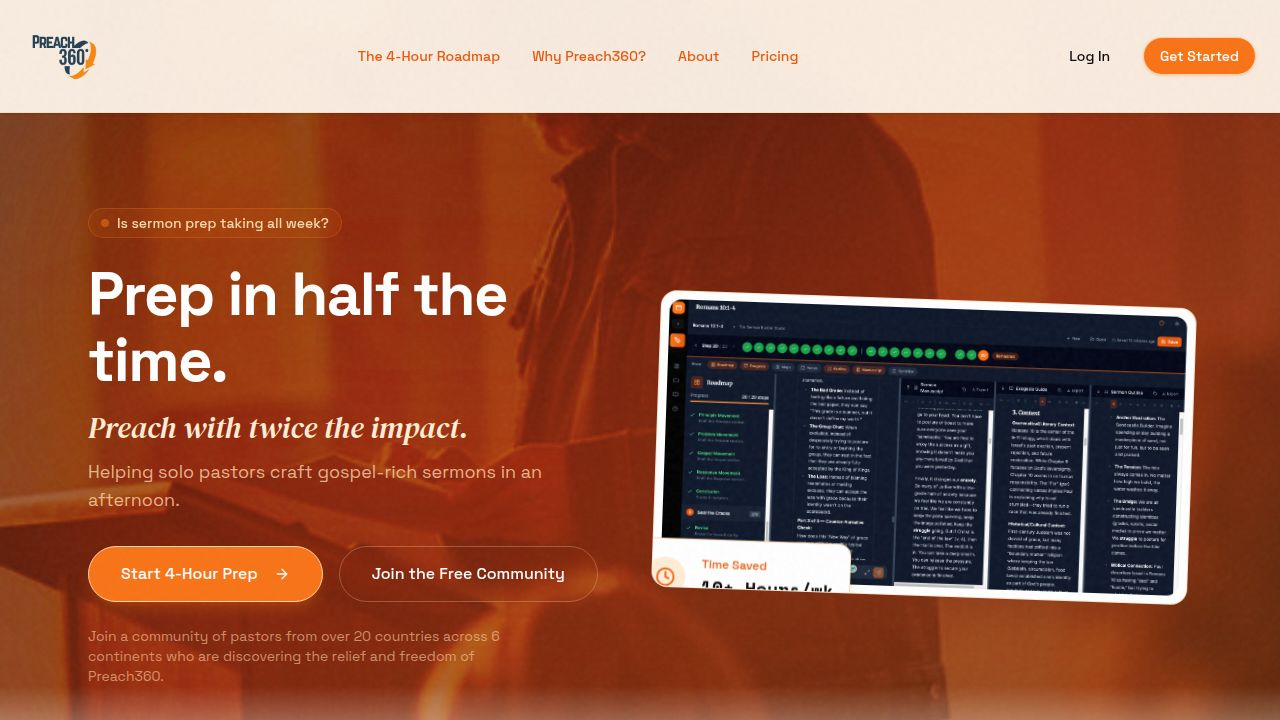
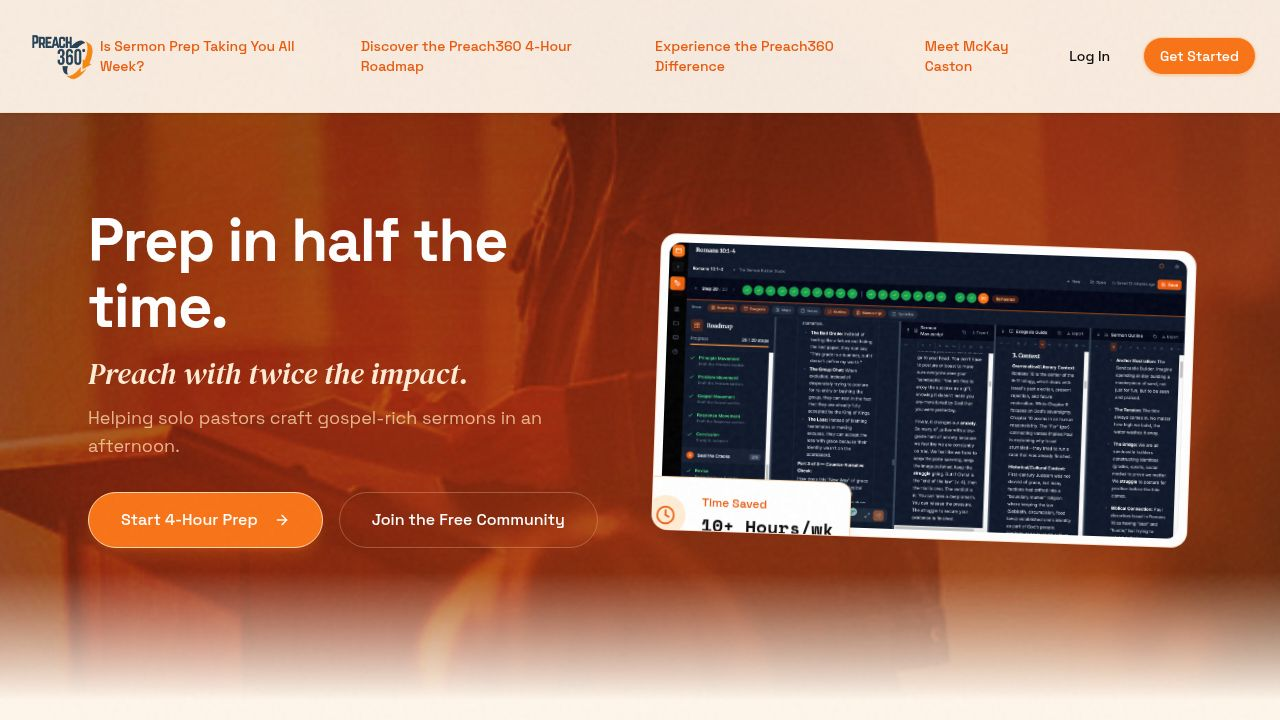
Update website structure and navigation to align with new marketing strategy
Refactors client/src/pages/home.tsx and client/src/components/navbar.tsx to implement a new 5-section structure and update navigation links. Also updates client/public/opengraph.jpg.

Replit-Commit-Author: Agent
Replit-Commit-Session-Id: b40ebc65-716c-42ff-8a29-f355e8ec55d6
Replit-Commit-Checkpoint-Type: full_checkpoint
Replit-Commit-Event-Id: cc2ed792-aba9-4d38-80b8-5e5e4e2a74d6
Replit-Commit-Screenshot-Url: https://storage.googleapis.com/screenshot-production-us-central1/52b2e9a9-1aca-4f31-b761-2a0e85fbc987/b40ebc65-716c-42ff-8a29-f355e8ec55d6/5cF8p7C
Replit-Helium-Checkpoint-Created: true

diff --git a/client/src/pages/home.tsx b/client/src/pages/home.tsx
@@ -84,16 +84,36 @@ export default function Home() {
         </div>
       </section>
 
-      {/* THE ENEMY (Agitation Block) - MOVED DOWN */}
-
-      {/* ROADMAP & PROTOCOL */}
-      <section className="pt-24 pb-8 bg-brand-50/50 relative" id="roadmap">
-        <div className="container mx-auto px-4 max-w-6xl">
-          <div className="mb-16 text-center">
-            <h2 className="text-3xl md:text-5xl font-bold mb-6 font-drama text-brand-950">The Preach360 4-Hour Roadmap</h2>
-            <p className="text-xl text-brand-600 font-medium">
-              Preach360 provides the path. You trust the process.
+      {/* 1. THE PROBLEM */}
+      <section className="py-16 md:py-20 bg-background relative" id="problem">
+        <div className="container mx-auto px-4 max-w-4xl text-center">
+          <h2 className="text-3xl md:text-5xl font-bold mb-8 font-drama text-foreground">Is Sermon Prep Taking You All Week?</h2>
+          
+          <div className="text-lg md:text-xl text-muted-foreground leading-relaxed">
+            <p className="mb-6 font-medium text-foreground">
+              Sermon prep that feels like cutting a new trail through a dense forest inevitably leads to mental pressure, emotional stress, and pastoral burnout.
             </p>
+            <p className="mb-6">
+              Without a clear path, it is easy to default to bloated, complicated Bible software, drown in stacks of physical commentaries, or fall back on soulless, generic AI.
+            </p>
+            <p className="mb-6 font-drama text-2xl text-brand-800">
+              What if there were a pre-cleared path to follow?
+            </p>
+            <p className="mb-8 font-bold text-foreground text-xl">
+              Now, there is.
+            </p>
+            <p className="text-base md:text-lg">
+              Preach360 guides you down a redemptive path from raw exegesis to a complete draft in 4 hours or less, serving as a Socratic preaching coach. It doesn't do the work for you. It does the work with you, allowing you to retain your unique, authentic voice and pastoral heart.
+            </p>
+          </div>
+        </div>
+      </section>
+
+      {/* 2. ROADMAP & PROTOCOL */}
+      <section className="py-16 md:py-20 bg-brand-50/50 relative" id="roadmap">
+        <div className="container mx-auto px-4 max-w-6xl">
+          <div className="mb-12 text-center">
+            <h2 className="text-3xl md:text-5xl font-bold mb-6 font-drama text-brand-950">Discover the Preach360 4-Hour Roadmap</h2>
           </div>
 
           <div className="mb-8 flex justify-center w-full">
@@ -104,7 +124,7 @@ export default function Home() {
             <h2 className="text-lg md:text-xl font-medium text-muted-foreground font-sans">4 hours of deep work beats 12 hours of distracted prep every time.</h2>
           </div>
 
-          <div className="grid md:grid-cols-4 gap-6 items-stretch mb-16">
+          <div className="grid md:grid-cols-4 gap-6 items-stretch">
             <div className="group relative bg-card border border-border hover:border-brand-300 transition-colors duration-300 rounded-3xl p-6 shadow-sm hover:shadow-xl hover:shadow-brand-500/5 flex flex-col h-full">
               <div className="text-brand-500 mb-6 bg-brand-50 w-14 h-14 rounded-2xl flex items-center justify-center shadow-sm">
                 <BookOpen size={28} />
@@ -149,79 +169,15 @@ export default function Home() {
               </p>
             </div>
           </div>
-
-          <div className="mt-16 max-w-3xl mx-auto text-lg md:text-xl text-muted-foreground leading-relaxed text-center">
-            <p className="mb-6 font-medium text-foreground">
-              Spending 12 to 18 hours preparing a single sermon inevitably leads to mental pressure, stress, and pastoral burnout.
-            </p>
-            <p className="mb-6">
-              Without a clear path, it is easy to default to bloated, complicated Bible software, drown in stacks of physical commentaries, or fall back on soulless, generic AI.
-            </p>
-            <p className="mb-6 font-drama text-2xl text-brand-800">
-              What if there were a pre-cleared path to follow?
-            </p>
-            <p className="font-bold text-foreground text-xl">
-              Now, there is.
-            </p>
-          </div>
-          
         </div>
       </section>
 
-      {/* THE KILL SHEET (Differentiation Grid) */}
-      <section className="pb-16 bg-background relative" id="features">
-        <div className="container mx-auto px-4 max-w-5xl">
-          <div className="text-center mb-16">
-             <h2 className="text-4xl md:text-6xl font-bold mb-6 font-drama text-foreground">Introducing Preach360: the All-in-One Sermon OS</h2>
-             <p className="text-lg text-muted-foreground max-w-4xl mx-auto">
-               Preach360 guides you down a redemptive path from raw exegesis to a complete draft in 4 hours or less without complicated Bible software or generic AI. By replacing fragmented preparation cycles with a systematic focus, Preach360 serves as a Socratic preaching coach. It doesn't do the work for you. It does the work with you, allowing you to retain your unique, authentic voice and pastoral heart.
-             </p>
-          </div>
-          
-          <div className="w-full flex justify-center mb-16">
-            <img src="/images/appInterface.png" alt="Preach360 App Interface" className="max-w-full h-auto w-full md:w-5/6 shadow-2xl rounded-2xl border border-border" />
-          </div>
-
-          <div className="grid md:grid-cols-3 gap-6 items-stretch">
-             {/* vs Complexity */}
-             <div className="bg-card border border-border p-8 rounded-2xl shadow-sm flex flex-col h-full">
-               <h3 className="text-xl font-bold mb-4">No Bloated Bible Software</h3>
-               <p className="text-muted-foreground mb-4 flex-1">
-                 Logos and Accordance are powerful, but they require a steep learning curve and drown you in too much data.
-               </p>
-               <div className="bg-brand-50/50 text-brand-900 p-4 rounded-xl text-sm font-medium border border-brand-100">
-                 Preach360 removes the need to wrestle with complicated software, giving you a streamlined path from exegesis to manuscript.
-               </div>
-             </div>
-             
-             {/* vs Soulless AI */}
-             <div className="bg-card border border-border p-8 rounded-2xl shadow-sm flex flex-col h-full">
-               <h3 className="text-xl font-bold mb-4">No Soulless, Generic AI</h3>
-               <p className="text-muted-foreground mb-4 flex-1">
-                 Generic AI tools bypass the Holy Spirit and outsource your study, your heart, and your voice.
-               </p>
-               <div className="bg-brand-50/50 text-brand-900 p-4 rounded-xl text-sm font-medium border border-brand-100">
-                 Preach360 acts as a true assistant that helps you dig into the text, and retain your unique pastoral voice and heart.
-               </div>
-             </div>
-
-             {/* vs Empty Editors */}
-             <div className="bg-card border border-border p-8 rounded-2xl shadow-sm flex flex-col h-full">
-               <h3 className="text-xl font-bold mb-4">A Redemptive Framework</h3>
-               <p className="text-muted-foreground mb-4 flex-1">
-                 Tools like Sermonary provide a drag-and-drop editor but lack a distinctively theological foundation.
-               </p>
-               <div className="bg-brand-50/50 text-brand-900 p-4 rounded-xl text-sm font-medium border border-brand-100">
-                 Preach360 is built on the proven PPGR framework, ensuring every sermon preaches to and through the cross.
-               </div>
-             </div>
-          </div>
-        </div>
-      </section>
-
-      {/* THE ENEMY (Agitation Block) - MOVED HERE */}
-      <section className="py-24 bg-background relative overflow-hidden" id="system">
+      {/* 3. THE PREACH360 DIFFERENCE */}
+      <section className="py-16 md:py-20 bg-background relative overflow-hidden" id="system">
         <div className="container mx-auto px-4 max-w-6xl relative z-10">
+          <div className="text-center mb-12">
+             <h2 className="text-3xl md:text-5xl font-bold font-drama text-foreground">Experience the Preach360 Difference</h2>
+          </div>
 
           <div className="grid md:grid-cols-2 gap-8 lg:gap-12 bg-brand-50/30 p-8 md:p-12 rounded-[2.5rem] border border-brand-100/50">
             {/* The Old Way */}
@@ -290,11 +246,11 @@ export default function Home() {
         </div>
       </section>
 
-      {/* ABOUT THE CREATOR */}
-      <section className="py-24 md:py-32 bg-brand-50/50" id="about">
+      {/* 4. ABOUT THE CREATOR */}
+      <section className="py-16 md:py-20 bg-brand-50/50" id="about">
         <div className="container mx-auto px-4 max-w-6xl">
-          <div className="text-center mb-16">
-             <h2 className="text-3xl md:text-5xl font-bold font-drama text-brand-950">Meet McKay Caston, PhD</h2>
+          <div className="text-center mb-12">
+             <h2 className="text-3xl md:text-5xl font-bold font-drama text-brand-950">Meet McKay Caston</h2>
           </div>
           
           <div className="flex flex-col md:flex-row gap-12 lg:gap-16 items-center max-w-5xl mx-auto">
@@ -309,7 +265,7 @@ export default function Home() {
             </div>
             
             <div className="w-full md:w-1/2">
-              <div className="space-y-6 text-xl text-muted-foreground leading-relaxed">
+              <div className="space-y-6 text-lg md:text-xl text-muted-foreground leading-relaxed">
                 <p>
                   McKay Caston is a pastor with over 30 years of preaching experience.
                 </p>
@@ -319,107 +275,21 @@ export default function Home() {
                 <p className="text-brand-900 font-medium text-2xl font-drama mt-8">
                   His ultimate goal? To help you live a sustainable life for a long-term, gospel preaching ministry.
                 </p>
-                <div className="mt-8 pt-8 border-t border-border/50 text-sm text-muted-foreground/70">
-                  <p>The Preach360 web app was designed in collaboration with</p>
-                  <ul className="list-disc list-inside mt-2 pl-2 space-y-1">
-                    <li>Michael Byrd, professional developer</li>
-                    <li>Rich Cannon, product specialist</li>
-                  </ul>
-                </div>
               </div>
             </div>
           </div>
         </div>
       </section>
 
-      {/* PRODUCT FEATURES & PILLARS - REMOVED */}
-
-
-      {/* PRICING */}
-      <section className="py-24 bg-background" id="pricing">
-        <div className="container mx-auto px-4 max-w-6xl">
-           <div className="text-center mb-16">
-             <h2 className="text-3xl md:text-5xl font-bold mb-6 font-drama text-foreground">Your All-in-One Sermon OS</h2>
-             <p className="text-lg text-muted-foreground max-w-2xl mx-auto">
-               A comprehensive toolkit. No other prep tools needed.
-             </p>
-           </div>
-           
-           <div className="grid md:grid-cols-2 lg:grid-cols-3 gap-8 max-w-5xl mx-auto">
-              <div className="bg-card border border-border p-8 rounded-3xl flex flex-col">
-                <h3 className="text-xl font-bold mb-2">Basic Sermon Studio</h3>
-                <div className="text-3xl font-bold mb-2 font-mono">$35<span className="text-base font-normal text-muted-foreground">/mo</span></div>
-                <p className="text-sm font-medium text-brand-600 mb-4">per user, or $350/yr (2 mos free)</p>
-                <p className="text-sm text-muted-foreground mb-6">The core sermon preparation operating system designed to fit standard pastoral continuing education budgets.</p>
-                <div className="mt-auto pt-6 border-t border-border">
-                  <Button className="w-full" variant="outline">Choose Basic</Button>
-                </div>
-              </div>
-              
-              <div className="bg-brand-500 text-white p-8 rounded-3xl flex flex-col relative shadow-xl shadow-brand-500/20 transform scale-105">
-                <div className="absolute top-0 right-0 transform translate-x-2 -translate-y-2">
-                  <span className="bg-brand-950 text-brand-100 text-xs font-bold px-3 py-1 rounded-full">MOST POPULAR</span>
-                </div>
-                <h3 className="text-xl font-bold mb-2 text-brand-50">Premium Upgrade</h3>
-                <div className="text-3xl font-bold mb-2 font-mono">$70<span className="text-base font-normal text-brand-200">/mo</span></div>
-                <p className="text-sm font-medium text-brand-100 mb-4">per user, or $700/yr (2 mos free)</p>
-                <p className="text-sm text-brand-100 mb-6">Includes the complete video training library, the comprehensive Preach360 Video Course, the full suite of specialized sermon prep apps, and weekly live group coaching via Zoom with Preach360 creator, McKay Caston, PhD.</p>
-                <div className="mt-auto pt-6 border-t border-brand-400">
-                  <Button className="w-full bg-white text-brand-600 hover:bg-brand-50">Choose Premium</Button>
-                </div>
-              </div>
-              
-              <div className="bg-card border border-border p-8 rounded-3xl flex flex-col">
-                <h3 className="text-xl font-bold mb-2">Volume Pricing <span className="text-sm font-normal text-muted-foreground block mt-1">(Staffs/Networks/Organizations)</span></h3>
-                <div className="text-2xl font-bold mb-4 font-mono">$15-$25<span className="text-base font-normal text-muted-foreground">/mo</span></div>
-                <p className="text-sm text-muted-foreground mb-6">Those who purchase a basic or premium subscription may purchase additional seats at the volume price for staffs, church planting networks, mission organizations, seminaries, etc. Volume pricing is $15/mo (billed annually) for the basic studio and $25/mo for premium.</p>
-                <div className="mt-auto pt-6 border-t border-border">
-                  <Button className="w-full" variant="outline">Contact Sales</Button>
-                </div>
-              </div>
-           </div>
-
-           <div className="mt-16 border-l-2 border-brand-500/50 pl-6 py-2 mx-auto text-left max-w-3xl">
-              <p className="text-muted-foreground italic text-lg leading-relaxed mb-2">
-                "I have received more comments about the sermons being helpful than in all my previous years of preaching combined."
-              </p>
-              <p className="text-brand-600 font-bold">— Rodney B.</p>
-           </div>
-        </div>
-      </section>
-
-      {/* THE PRIVACY WALL (Moved to below pricing) */}
-      <section className="py-24 md:py-32 bg-brand-50 relative overflow-hidden">
-        <div className="absolute right-0 top-0 opacity-[0.03] w-1/2 h-full bg-[url('https://preach360.edgestack.space/images/ppgr-blueprint.png')] bg-contain bg-no-repeat bg-right" />
-        <div className="container mx-auto px-4 max-w-4xl relative z-10 text-center">
-          
-          <div className="bg-white rounded-3xl p-8 md:p-12 shadow-xl shadow-brand-900/5 border border-brand-100 relative mt-12">
-            <div className="absolute -top-8 left-1/2 -translate-x-1/2 bg-white rounded-full p-4 shadow-sm border border-brand-50">
-              <Lock className="w-10 h-10 text-brand-500" />
-            </div>
-            <p className="text-lg md:text-xl text-muted-foreground leading-relaxed mt-4">
-              Sermon prep requires deep vulnerability. Preach360 operates behind a strict Privacy Wall, assuring that your drafts, notes, and thoughts are protected.
-            </p>
-          </div>
-        </div>
-      </section>
-
-      {/* CTA SECTION */}
-      <section className="py-24 bg-brand-950 text-white text-center relative overflow-hidden">
+      {/* 5. CTA SECTION */}
+      <section className="py-16 md:py-20 bg-brand-950 text-white text-center relative overflow-hidden" id="pricing">
         <div className="absolute inset-0 bg-gradient-to-tr from-brand-950 to-brand-800" />
         <div className="absolute right-0 bottom-0 opacity-10 bg-[url('https://preach360.edgestack.space/images/solo_pastor.jpeg')] bg-cover w-full h-full mix-blend-luminosity pointer-events-none" />
         
         <div className="container mx-auto px-4 relative z-10">
-          <div className="max-w-3xl mx-auto text-center mb-12">
-            <p className="text-xl md:text-2xl text-brand-200 font-drama italic mb-4">
-              "I can honestly say that for the first time in 18 years that I look forward to sermon prep."
-            </p>
-            <p className="text-brand-500 font-bold">— Kelly C.</p>
-          </div>
-          
-          <h2 className="text-4xl md:text-6xl font-bold font-drama mb-6 mt-8">Reclaim your weekend.</h2>
+          <h2 className="text-4xl md:text-6xl font-bold font-drama mb-6">Get Started Today</h2>
           <p className="text-xl md:text-2xl text-brand-200 mb-10 max-w-2xl mx-auto opacity-90">
-            Join a community of pastors from over 20 countries across 6 continents who are discovering the relief and freedom of Preach360.
+            Your all-in-one sermon OS. No other prep tools needed.
           </p>
           <div className="flex flex-col sm:flex-row justify-center gap-4">
              <Link href="/login">
@@ -427,9 +297,6 @@ export default function Home() {
                   Get Started
                 </Button>
              </Link>
-             <Button size="lg" variant="outline" className="rounded-full border-brand-500/50 hover:bg-brand-900/50 hover:border-brand-500 text-white h-14 px-8 text-lg w-full sm:w-auto backdrop-blur-sm">
-               Join Free Community
-             </Button>
           </div>
         </div>
       </section>

diff --git a/client/src/components/navbar.tsx b/client/src/components/navbar.tsx
@@ -14,10 +14,10 @@ export function Navbar() {
         </Link>
 
         <div className="hidden md:flex items-center gap-8 text-sm font-medium text-muted-foreground">
-          <a href="#roadmap" className="hover:text-foreground transition-colors">The 4-Hour Roadmap</a>
-          <a href="#features" className="hover:text-foreground transition-colors">Introducing Preach360: the All-in-One Sermon OS</a>
-          <a href="#about" className="hover:text-foreground transition-colors">About</a>
-          <a href="#pricing" className="hover:text-foreground transition-colors">Pricing</a>
+          <a href="#problem" className="hover:text-foreground transition-colors">Is Sermon Prep Taking You All Week?</a>
+          <a href="#roadmap" className="hover:text-foreground transition-colors">Discover the Preach360 4-Hour Roadmap</a>
+          <a href="#system" className="hover:text-foreground transition-colors">Experience the Preach360 Difference</a>
+          <a href="#about" className="hover:text-foreground transition-colors">Meet McKay Caston</a>
         </div>
 
         <div className="flex items-center gap-4">
